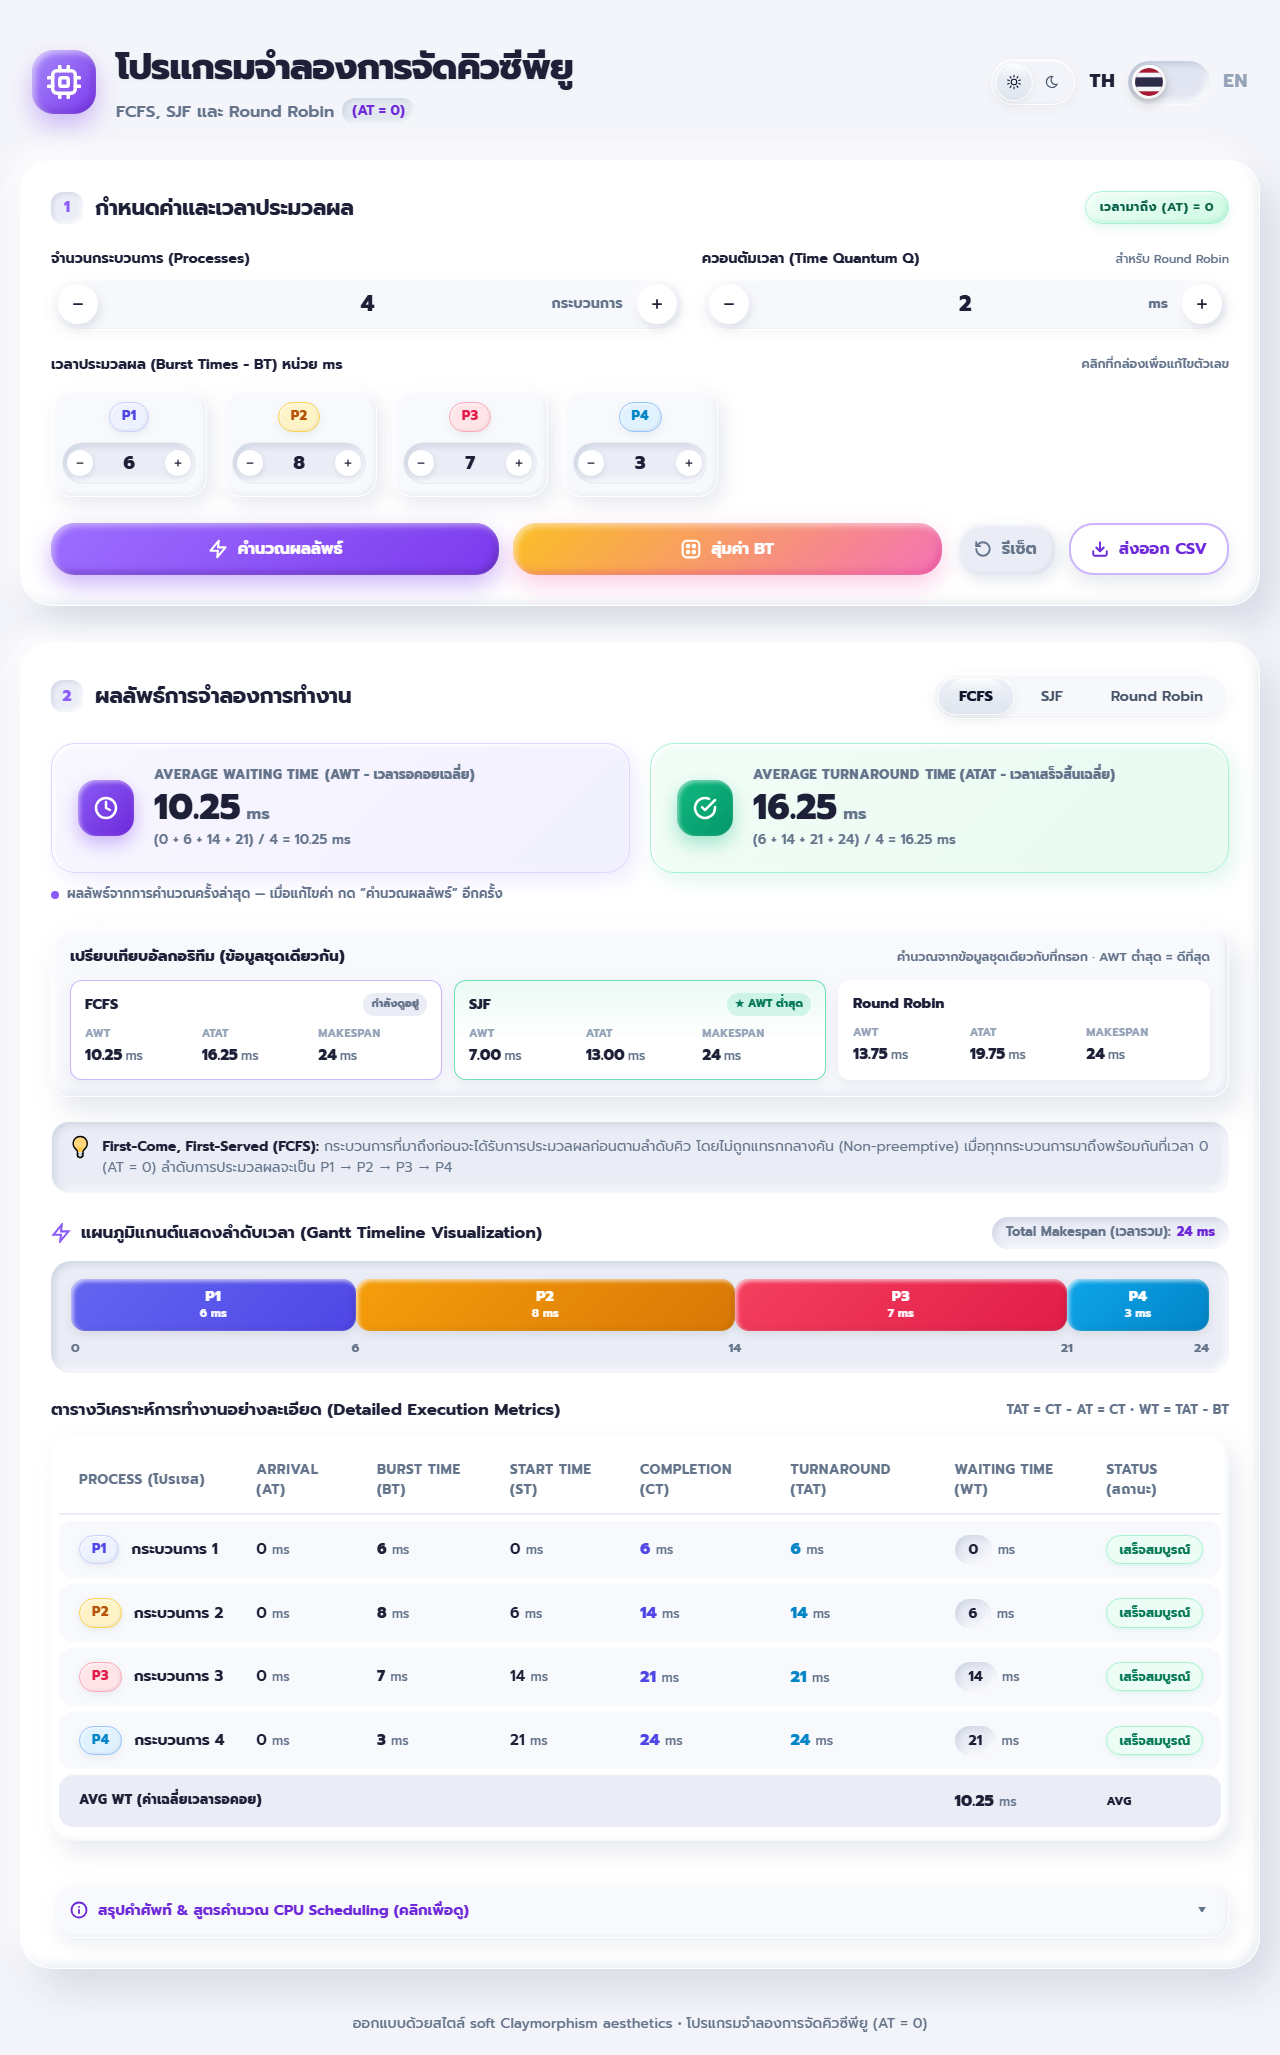
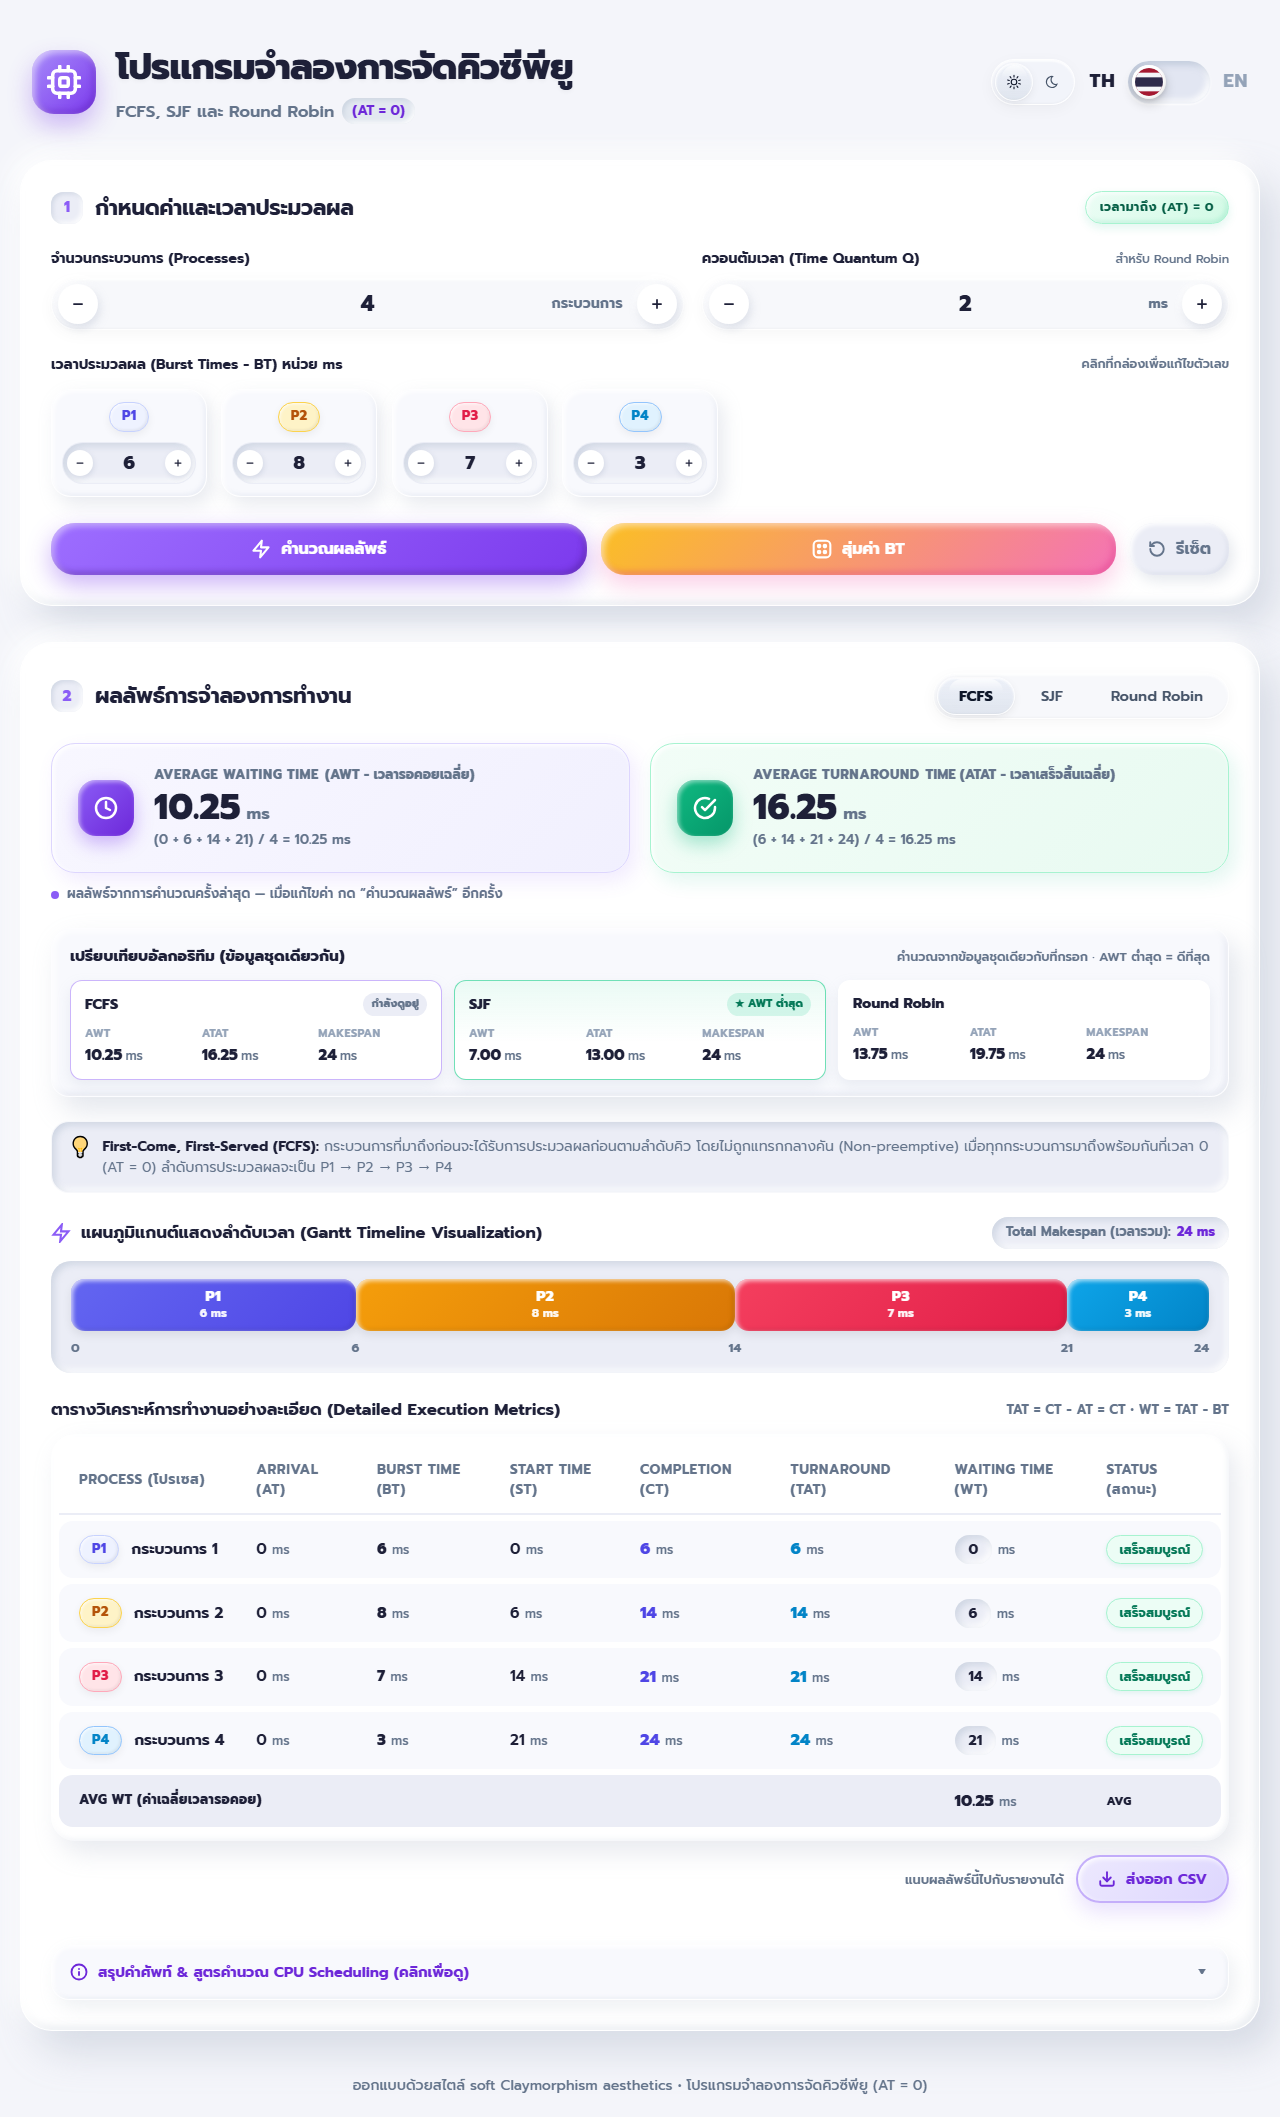
fix(ui): place the CSV export under the results table
- move the export button from the action bar to a row directly below the table,
  under the AVG WT footer, with a short hint next to it: that is where the page
  scrolls once a calculation runs
- give it a lavender fill (solid tint in dark mode) so it still reads as a
  button at the end of the results
- refresh the README screenshots and text

diff --git a/index.html b/index.html
@@ -249,16 +249,6 @@
               </svg>
               <span id="btn-reset-text">รีเซ็ต</span>
             </button>
-
-            <button type="button" id="btn-export" class="clay-btn btn-export" title="ดาวน์โหลดผลลัพธ์เป็น CSV">
-              <svg width="18" height="18" viewBox="0 0 24 24" fill="none" stroke="currentColor" stroke-width="2.5"
-                stroke-linecap="round" stroke-linejoin="round" aria-hidden="true">
-                <path d="M21 15v4a2 2 0 0 1-2 2H5a2 2 0 0 1-2-2v-4"></path>
-                <polyline points="7 10 12 15 17 10"></polyline>
-                <line x1="12" y1="15" x2="12" y2="3"></line>
-              </svg>
-              <span id="btn-export-text">ส่งออก CSV</span>
-            </button>
           </div>
         </form>
       </section>
@@ -428,6 +418,20 @@
                 </tfoot>
               </table>
             </div>
+
+            <!-- ส่งออกผลลัพธ์: อยู่ใต้แถว AVG WT ต่อท้ายตาราง (เห็นตอนเลื่อนลงมาดูผล) -->
+            <div class="table-actions">
+              <span class="table-actions-hint" id="export-hint">แนบผลลัพธ์นี้ไปกับรายงานได้</span>
+              <button type="button" id="btn-export" class="clay-btn btn-export" title="ดาวน์โหลดผลลัพธ์เป็น CSV">
+                <svg width="18" height="18" viewBox="0 0 24 24" fill="none" stroke="currentColor" stroke-width="2.5"
+                  stroke-linecap="round" stroke-linejoin="round" aria-hidden="true">
+                  <path d="M21 15v4a2 2 0 0 1-2 2H5a2 2 0 0 1-2-2v-4"></path>
+                  <polyline points="7 10 12 15 17 10"></polyline>
+                  <line x1="12" y1="15" x2="12" y2="3"></line>
+                </svg>
+                <span id="btn-export-text">ส่งออก CSV</span>
+              </button>
+            </div>
           </div>
 
           <!-- Glossary & Formula Summary Accordion -->
@@ -526,6 +530,7 @@
           tableAvgWt: "AVG WT (ค่าเฉลี่ยเวลารอคอย)",
           btnExportText: "ส่งออก CSV",
           btnExportTitle: "ดาวน์โหลดผลลัพธ์ล่าสุดเป็นไฟล์ CSV",
+          exportHint: "แนบผลลัพธ์นี้ไปกับรายงานได้",
           labelGanttTitle: "แผนภูมิแกนต์แสดงลำดับเวลา (Gantt Timeline Visualization)",
           labelMakespanText: "Total Makespan (เวลารวม):",
           ganttChartAria: "แผนภูมิแกนต์แสดงลำดับการทำงานของซีพียู",
@@ -615,6 +620,7 @@
           tableAvgWt: "AVG WT (average waiting time)",
           btnExportText: "Export CSV",
           btnExportTitle: "Download the latest results as a CSV file",
+          exportHint: "Attach these results to your report",
           labelGanttTitle: "Gantt Timeline Visualization",
           labelMakespanText: "Total Makespan:",
           ganttChartAria: "Gantt timeline chart displaying CPU execution sequence",
@@ -698,6 +704,7 @@
           'compare-note': t.compareNote,
           'table-avg-label': t.tableAvgWt,
           'btn-export-text': t.btnExportText,
+          'export-hint': t.exportHint,
           'label-gantt-title': t.labelGanttTitle,
           'label-makespan-text': t.labelMakespanText,
           'label-table-title': t.labelTableTitle,

diff --git a/styles.css b/styles.css
@@ -1562,19 +1562,38 @@ body {
   letter-spacing: 0.02em;
 }
 
-/* ปุ่มส่งออก CSV — อยู่ในแถวปุ่มหลัก (หลังปุ่มรีเซ็ต) ให้เห็นได้ทันที */
+/* ปุ่มส่งออก CSV — อยู่ใต้แถว AVG WT ต่อท้ายตาราง (เห็นตอนเลื่อนลงมาดูผล) */
+.table-actions {
+  display: flex;
+  align-items: center;
+  justify-content: flex-end;
+  gap: 12px;
+  flex-wrap: wrap;
+  margin-top: 2px;
+}
+.table-actions-hint {
+  font-size: 0.8rem;
+  font-weight: 600;
+  color: var(--text-muted);
+}
 .btn-export {
-  background: var(--bg-card);
+  background: linear-gradient(135deg, #EDE9FE 0%, #DDD6FE 100%);
   color: var(--clay-purple-dark);
-  border: 2px solid rgba(139, 92, 246, 0.45);
-  box-shadow: 0 8px 18px rgba(166, 175, 195, 0.28), inset 2px 2px 5px rgba(255, 255, 255, 0.9);
-  /* padding หักลบขอบ 2px เพื่อให้สูงเท่าปุ่มอื่นในแถวเดียวกัน */
-  padding: 12px 20px;
+  border: 2px solid rgba(139, 92, 246, 0.4);
+  box-shadow: 0 10px 20px rgba(139, 92, 246, 0.18), inset 2px 2px 5px rgba(255, 255, 255, 0.85);
+  padding: 11px 20px;
+  font-size: 0.92rem;
   flex: 0 0 auto;
 }
 .btn-export:hover {
-  background: var(--bg-card-alt);
-  border-color: rgba(139, 92, 246, 0.75);
+  filter: brightness(1.04);
+  border-color: rgba(139, 92, 246, 0.7);
+}
+[data-theme="dark"] .btn-export {
+  background: rgba(167, 139, 250, 0.18);
+  color: var(--clay-purple-light);
+  border-color: rgba(167, 139, 250, 0.45);
+  box-shadow: 0 10px 22px rgba(0, 0, 0, 0.45), inset 2px 2px 5px rgba(255, 255, 255, 0.08);
 }
 
 /* แถว AVG WT ท้ายตาราง (ข้อกำหนด: ตารางต้องมีค่าเฉลี่ยเวลารอคอย) */

diff --git a/README.md b/README.md
@@ -29,7 +29,7 @@ An interactive, responsive CPU-scheduling simulator built with vanilla HTML/CSS/
 - **Summary cards** — Average Waiting Time and Average Turnaround Time with the full arithmetic, e.g. `(0 + 6 + 14 + 21) / 4 = 10.25 ms`, plus the total makespan.
 - **Algorithm comparison** — FCFS, SJF and Round Robin are all computed from the same input and shown side by side (AWT, ATAT and makespan); the lowest AWT is highlighted and the algorithm currently on screen is marked.
 - **AVG WT footer** — the table ends with an average-waiting-time row, so the requested `AVG WT` value is part of the table itself.
-- **CSV export** — the **Export CSV** button in the main action bar (next to *Calculate / Randomise / Reset*) downloads the current view (per-process table, averages and the three-algorithm comparison) as a UTF-8 CSV that keeps Thai text readable in Excel.
+- **CSV export** — the **Export CSV** button sits directly under the results table (below the `AVG WT` row), so it is right where the page scrolls after a calculation. It downloads the current view (per-process table, averages and the three-algorithm comparison) as a UTF-8 CSV that keeps Thai text readable in Excel.
 
 ### Input & controls
 
